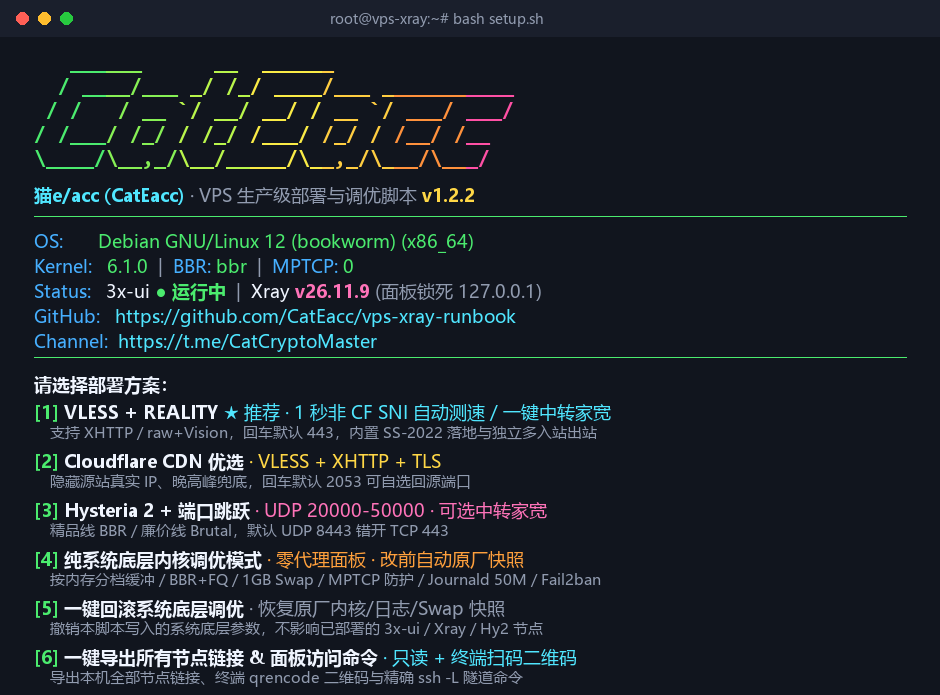
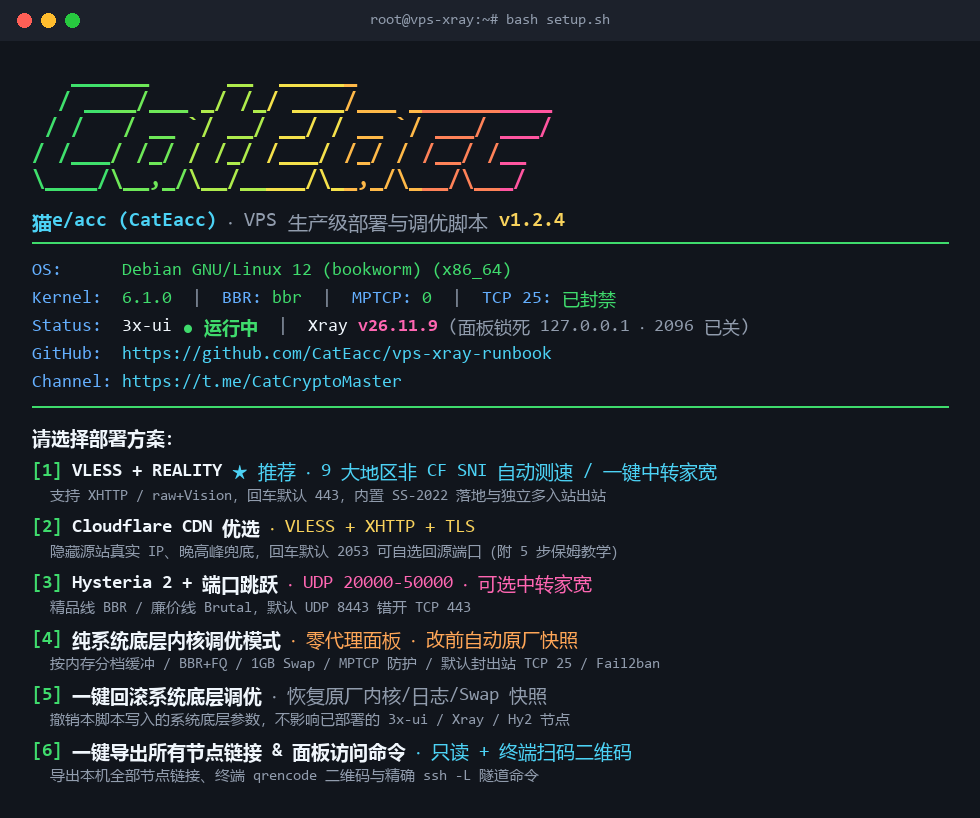
docs & release: v1.2.4 add 8-item pitfall table, update menu PNG and default TCP 25 block

diff --git a/README.md b/README.md
@@ -33,6 +33,23 @@ bash <(curl -fsSL https://raw.githubusercontent.com/CatEacc/vps-xray-runbook/mai
 
 ---
 
+## 避坑对照：为什么不建议照搬网上「野生教程 / 模板」？
+
+网上不少拼凑教程把官方文档示例改两行就当“极简生产方案”发出来，新手照抄往往当天就被蹭流量、爆内存甚至封机。下面列出最常见的 8 个致命硬伤，以及本手册对应的生产级做法：
+
+| 常见野生教程踩坑点 | 实际后果 | 本手册生产级做法 |
+| :--- | :--- | :--- |
+| **1. 公开配置写死 UUID 与 REALITY 私钥** | 照抄启动后沦为全网开放代理，持私钥者还可伪造服务端做中间人攻击，蹭流量/发垃圾邮件直接封机 | 每次部署由内核现场随机生成独立 UUID、shortId 与 X25519 密钥对，绝不复用模板凭证 |
+| **2. 512M/1G 小内存硬塞 Docker 跑单进程代理** | Docker 引擎本身仍由 `systemd` 守护，平白多吃上百 MB 内存，小鸡高并发极易 OOM 强杀代理进程 | 原生 `systemd` 直跑（含崩溃无限自愈与 `OOMScoreAdjust=-500`），轻量化需求另提供约 20MB 内存的 [sing-box 无面板版](https://github.com/CatEacc/vps-singbox-runbook) |
+| **3. 镜像或脚本写死 `x86_64` 架构** | 在甲骨文（Oracle Cloud）等 ARM64 机器上直接报 `exec format error` 启动崩溃 | 自动探测 `uname -m`，原生兼容 `amd64` 与 `arm64` 双架构 |
+| **4. REALITY SNI 乱偷 `www.icloud.com` 等大厂站** | 国内存在云上贵州/境内 CDN 或路由重定向，或误偷 Cloudflare 站点沦为免费优选反代肉鸡 | 内置 **9 大地区纯本土 X25519 SNI 自动测速 + 选中后四重复检**（`TLS 1.3 + H2` / 非 CF / 无国内 CDN / 大陆可达） |
+| **5. 声称「CN2 GIA 等好线路不用开 BBR」** | 跨洋高延迟大带宽（高 BDP）下，默认 Cubic 遇轻微抖动即腰斩窗口，单流吞吐远跑不满 | 强制 `fq + bbr` + 关闭空闲慢启动 + 按物理内存三档自适应读写缓冲区 |
+| **6. 出站裸跑 `freedom`，无路由与端口防护** | 可被利用访问云内网元数据 `169.254.169.254`、挂 BT 吃 DMCA 版权封号、滥发垃圾邮件拖黑 IP | 默认置顶封禁 `geoip:private`、`bittorrent`、`geoip:cn`，并从主机层与代理层双保险封禁出站 `TCP 25`（SMTP） |
+| **7. 生产环境常开 `debug` 日志且不轮转** | 几天写爆小硬盘，且明文留存所有访问隐私记录 | 关闭无轮转 `access.log`，锁定 `warning` 级别，配合 `logrotate` 与 `journald 50M` 强收敛 |
+| **8. 客户端规则只写一条 `MATCH,PROXY`** | 国内 App 与网页流量全绕海外，白烧高价优化线路流量，还会撞上服务端防回国规则导致断网 | 提供完整国内外分流、防 DNS 泄露及家宽链式出口客户端规范（见 [vps-clash-runbook](https://github.com/CatEacc/vps-clash-runbook)） |
+
+---
+
 ## 阶段零：顶层架构决策 —— 机房机器（DC） vs 家宽机器（Residential）
 
 在动手部署前，建议先明确机器属于**机房商业 VPS** 还是**原生住宅家宽 VPS**，二者的网络环境与 ISP 策略差异很大。
